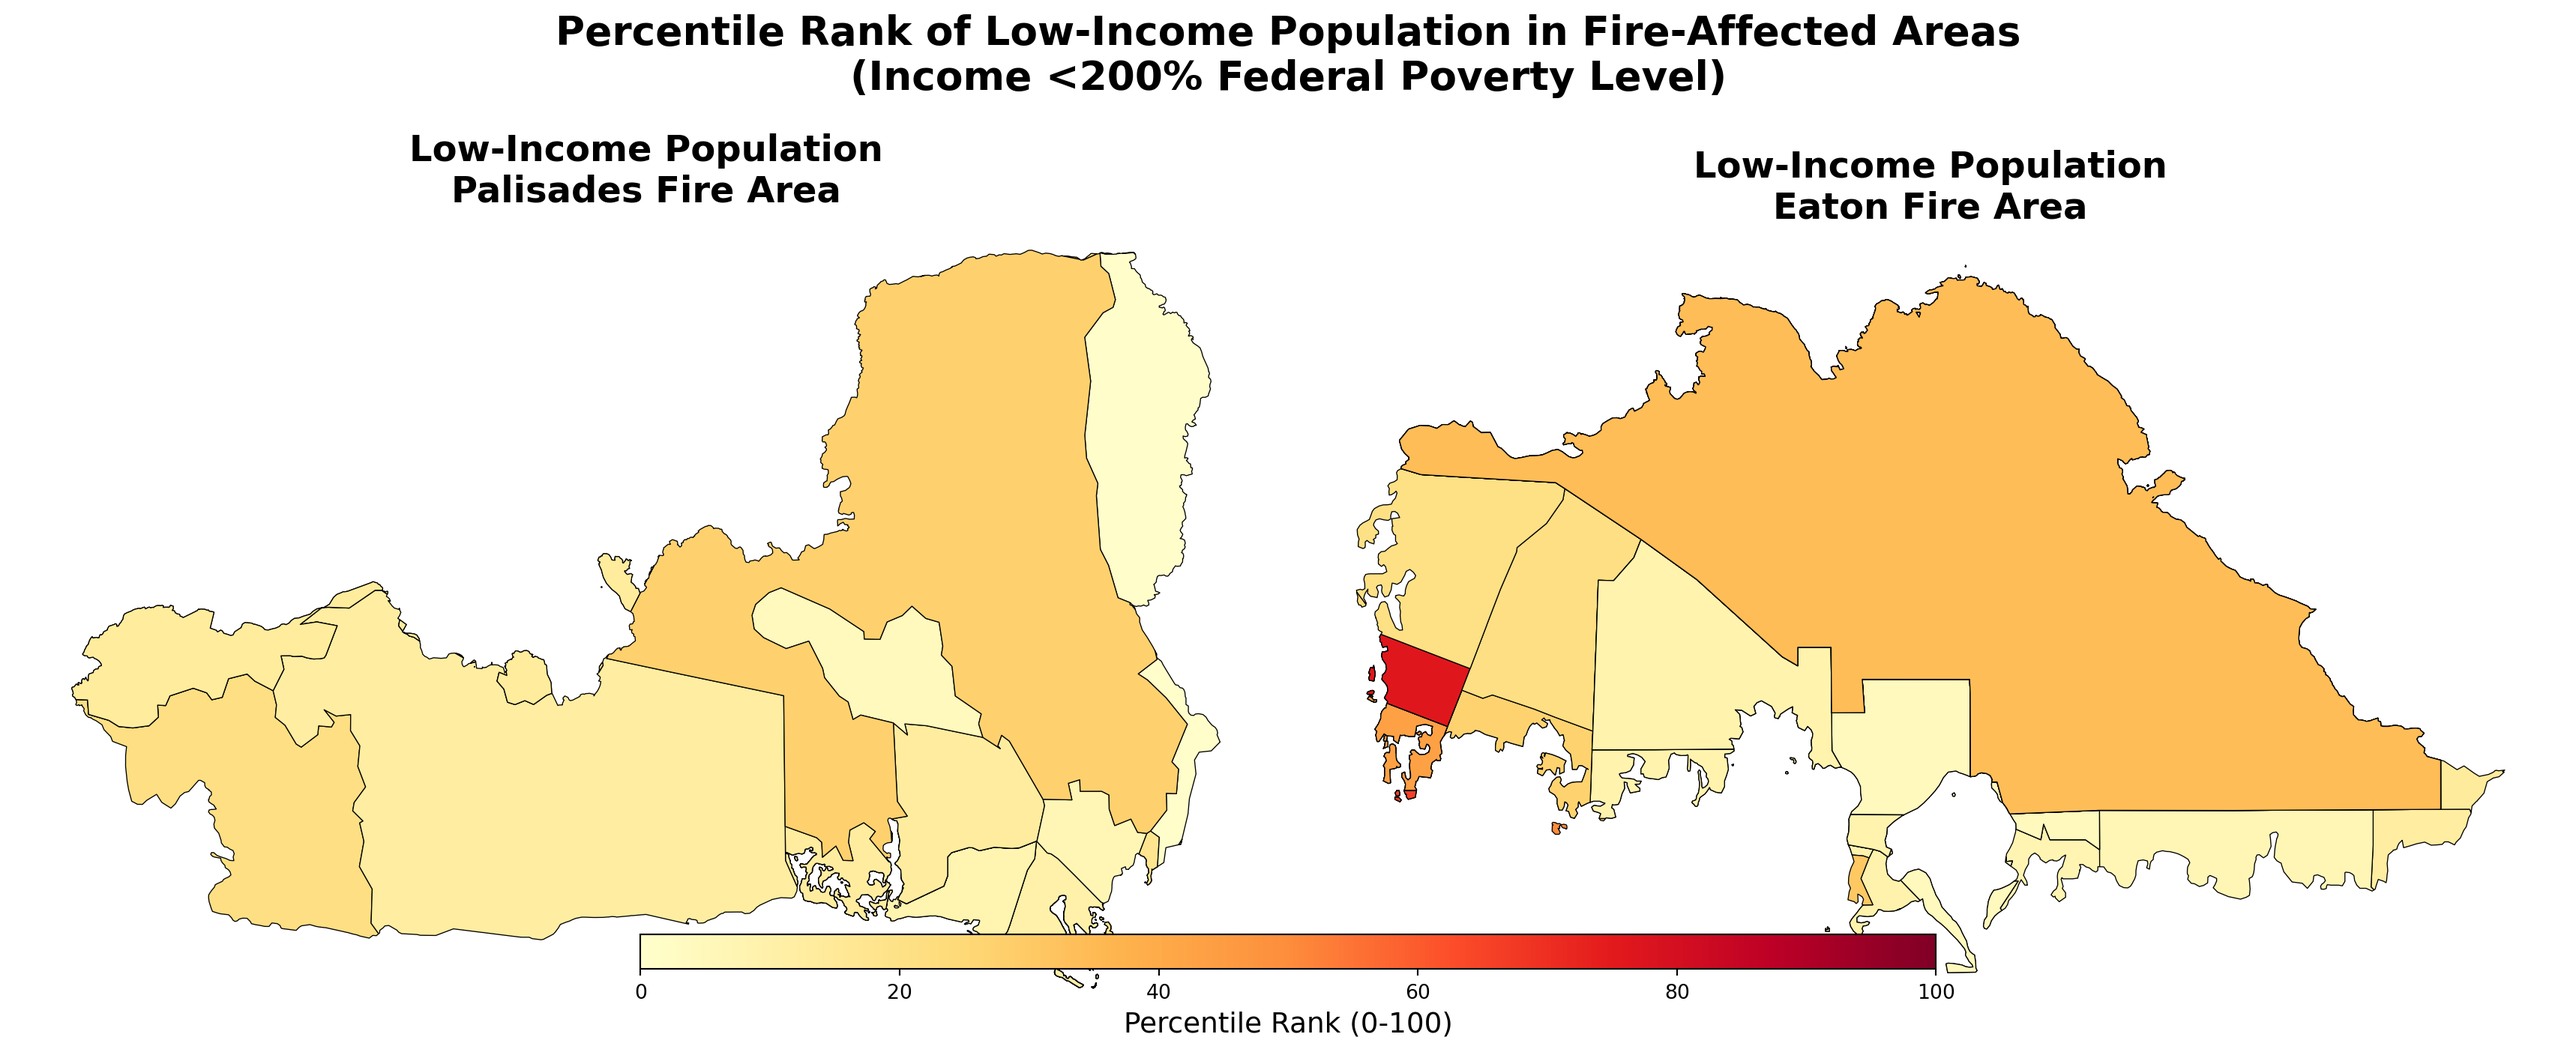
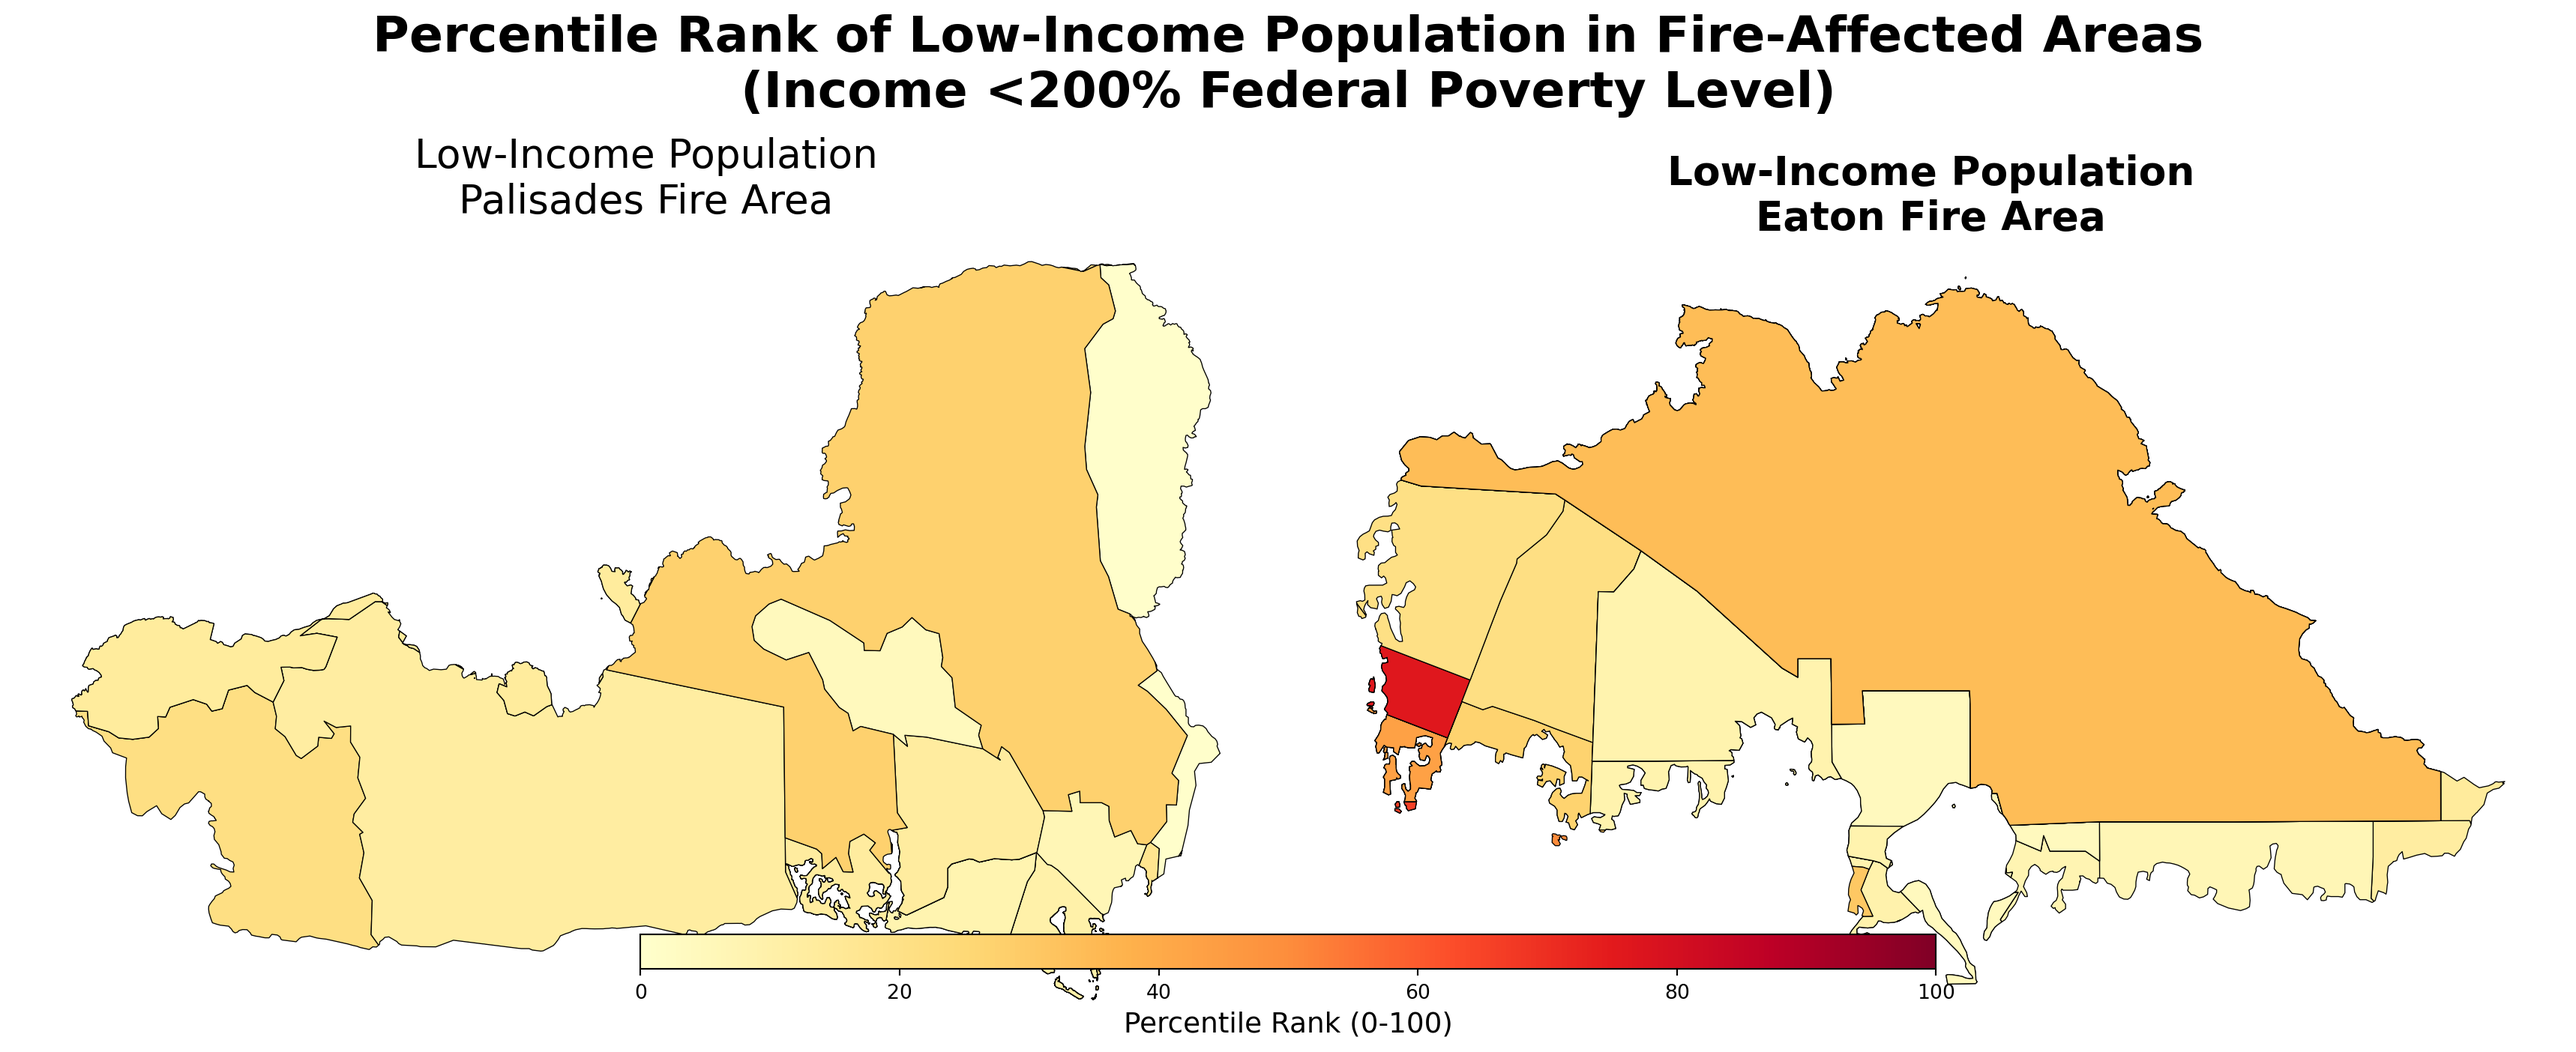
Formatting updates

diff --git a/docs/posts/eds220-final/index.html b/docs/posts/eds220-final/index.html
@@ -380,7 +380,7 @@ div.csl-indent {
 <span id="cb2-15"><a href="#cb2-15" aria-hidden="true" tabindex="-1"></a><span class="co"># Display as formatted table</span></span>
 <span id="cb2-16"><a href="#cb2-16" aria-hidden="true" tabindex="-1"></a>summary_df</span></code></pre></div><button title="Copy to Clipboard" class="code-copy-button"><i class="bi"></i></button></div>
 </details>
-<div id="load-fire-perimeters" class="cell-output cell-output-display" data-execution_count="27">
+<div id="load-fire-perimeters" class="cell-output cell-output-display" data-execution_count="53">
 <div>
 
 
@@ -435,7 +435,7 @@ div.csl-indent {
 <span id="cb3-12"><a href="#cb3-12" aria-hidden="true" tabindex="-1"></a><span class="co"># Display as formatted table</span></span>
 <span id="cb3-13"><a href="#cb3-13" aria-hidden="true" tabindex="-1"></a>crs_df</span></code></pre></div><button title="Copy to Clipboard" class="code-copy-button"><i class="bi"></i></button></div>
 </details>
-<div id="crs-check" class="cell-output cell-output-display" data-execution_count="28">
+<div id="crs-check" class="cell-output cell-output-display" data-execution_count="54">
 <div>
 
 
@@ -496,7 +496,7 @@ div.csl-indent {
 <span id="cb4-18"><a href="#cb4-18" aria-hidden="true" tabindex="-1"></a><span class="co"># Display as formatted table</span></span>
 <span id="cb4-19"><a href="#cb4-19" aria-hidden="true" tabindex="-1"></a>landsat_df</span></code></pre></div><button title="Copy to Clipboard" class="code-copy-button"><i class="bi"></i></button></div>
 </details>
-<div id="load-landsat" class="cell-output cell-output-display" data-execution_count="29">
+<div id="load-landsat" class="cell-output cell-output-display" data-execution_count="55">
 <div>
 
 
@@ -584,7 +584,7 @@ div.csl-indent {
 <span id="cb7-16"><a href="#cb7-16" aria-hidden="true" tabindex="-1"></a><span class="co"># Display as formatted table</span></span>
 <span id="cb7-17"><a href="#cb7-17" aria-hidden="true" tabindex="-1"></a>nan_df</span></code></pre></div><button title="Copy to Clipboard" class="code-copy-button"><i class="bi"></i></button></div>
 </details>
-<div id="check-nan-values" class="cell-output cell-output-display" data-execution_count="31">
+<div id="check-nan-values" class="cell-output cell-output-display" data-execution_count="57">
 <div>
 
 
@@ -714,7 +714,7 @@ div.csl-indent {
 <span id="cb11-9"><a href="#cb11-9" aria-hidden="true" tabindex="-1"></a>landsat[[<span class="st">'swir22'</span>, <span class="st">'nir08'</span>, <span class="st">'red'</span>]].to_array().plot.imshow(</span>
 <span id="cb11-10"><a href="#cb11-10" aria-hidden="true" tabindex="-1"></a>    ax <span class="op">=</span> ax,</span>
 <span id="cb11-11"><a href="#cb11-11" aria-hidden="true" tabindex="-1"></a>    robust <span class="op">=</span> <span class="va">True</span>,</span>
-<span id="cb11-12"><a href="#cb11-12" aria-hidden="true" tabindex="-1"></a>    add_colorbar<span class="op">=</span> <span class="va">False</span></span>
+<span id="cb11-12"><a href="#cb11-12" aria-hidden="true" tabindex="-1"></a>    add_colorbar <span class="op">=</span> <span class="va">False</span></span>
 <span id="cb11-13"><a href="#cb11-13" aria-hidden="true" tabindex="-1"></a>)</span>
 <span id="cb11-14"><a href="#cb11-14" aria-hidden="true" tabindex="-1"></a></span>
 <span id="cb11-15"><a href="#cb11-15" aria-hidden="true" tabindex="-1"></a><span class="co"># Overlay fire perimeters</span></span>
@@ -809,42 +809,42 @@ div.csl-indent {
 <span id="cb12-19"><a href="#cb12-19" aria-hidden="true" tabindex="-1"></a>eji_clip_palisades_scaled.plot(</span>
 <span id="cb12-20"><a href="#cb12-20" aria-hidden="true" tabindex="-1"></a>    column <span class="op">=</span> eji_variable,</span>
 <span id="cb12-21"><a href="#cb12-21" aria-hidden="true" tabindex="-1"></a>    vmin <span class="op">=</span> vmin, vmax <span class="op">=</span> vmax,</span>
-<span id="cb12-22"><a href="#cb12-22" aria-hidden="true" tabindex="-1"></a>    cmap<span class="op">=</span><span class="st">'YlOrRd'</span>,</span>
-<span id="cb12-23"><a href="#cb12-23" aria-hidden="true" tabindex="-1"></a>    legend<span class="op">=</span><span class="va">False</span>,</span>
-<span id="cb12-24"><a href="#cb12-24" aria-hidden="true" tabindex="-1"></a>    ax<span class="op">=</span>ax1,</span>
-<span id="cb12-25"><a href="#cb12-25" aria-hidden="true" tabindex="-1"></a>    edgecolor<span class="op">=</span><span class="st">'black'</span>,</span>
-<span id="cb12-26"><a href="#cb12-26" aria-hidden="true" tabindex="-1"></a>    linewidth<span class="op">=</span><span class="fl">0.5</span></span>
+<span id="cb12-22"><a href="#cb12-22" aria-hidden="true" tabindex="-1"></a>    cmap <span class="op">=</span> <span class="st">'YlOrRd'</span>,</span>
+<span id="cb12-23"><a href="#cb12-23" aria-hidden="true" tabindex="-1"></a>    legend <span class="op">=</span> <span class="va">False</span>,</span>
+<span id="cb12-24"><a href="#cb12-24" aria-hidden="true" tabindex="-1"></a>    ax <span class="op">=</span> ax1,</span>
+<span id="cb12-25"><a href="#cb12-25" aria-hidden="true" tabindex="-1"></a>    edgecolor <span class="op">=</span> <span class="st">'black'</span>,</span>
+<span id="cb12-26"><a href="#cb12-26" aria-hidden="true" tabindex="-1"></a>    linewidth <span class="op">=</span> <span class="fl">0.5</span></span>
 <span id="cb12-27"><a href="#cb12-27" aria-hidden="true" tabindex="-1"></a>)</span>
 <span id="cb12-28"><a href="#cb12-28" aria-hidden="true" tabindex="-1"></a>ax1.set_title(<span class="st">'Low-Income Population</span><span class="ch">\n</span><span class="st">Palisades Fire Area'</span>,</span>
-<span id="cb12-29"><a href="#cb12-29" aria-hidden="true" tabindex="-1"></a>              fontsize<span class="op">=</span><span class="dv">18</span>, fontweight<span class="op">=</span><span class="st">'bold'</span>)</span>
+<span id="cb12-29"><a href="#cb12-29" aria-hidden="true" tabindex="-1"></a>              fontsize <span class="op">=</span> <span class="dv">20</span>)</span>
 <span id="cb12-30"><a href="#cb12-30" aria-hidden="true" tabindex="-1"></a>ax1.axis(<span class="st">'off'</span>)</span>
 <span id="cb12-31"><a href="#cb12-31" aria-hidden="true" tabindex="-1"></a></span>
 <span id="cb12-32"><a href="#cb12-32" aria-hidden="true" tabindex="-1"></a><span class="co"># Eaton Fire area</span></span>
 <span id="cb12-33"><a href="#cb12-33" aria-hidden="true" tabindex="-1"></a>eji_clip_eaton_scaled.plot(</span>
-<span id="cb12-34"><a href="#cb12-34" aria-hidden="true" tabindex="-1"></a>    column<span class="op">=</span>eji_variable,</span>
-<span id="cb12-35"><a href="#cb12-35" aria-hidden="true" tabindex="-1"></a>    vmin<span class="op">=</span>vmin, vmax<span class="op">=</span>vmax,</span>
-<span id="cb12-36"><a href="#cb12-36" aria-hidden="true" tabindex="-1"></a>    cmap<span class="op">=</span><span class="st">'YlOrRd'</span>,</span>
-<span id="cb12-37"><a href="#cb12-37" aria-hidden="true" tabindex="-1"></a>    legend<span class="op">=</span><span class="va">False</span>,</span>
-<span id="cb12-38"><a href="#cb12-38" aria-hidden="true" tabindex="-1"></a>    ax<span class="op">=</span>ax2,</span>
-<span id="cb12-39"><a href="#cb12-39" aria-hidden="true" tabindex="-1"></a>    edgecolor<span class="op">=</span><span class="st">'black'</span>,</span>
-<span id="cb12-40"><a href="#cb12-40" aria-hidden="true" tabindex="-1"></a>    linewidth<span class="op">=</span><span class="fl">0.5</span></span>
+<span id="cb12-34"><a href="#cb12-34" aria-hidden="true" tabindex="-1"></a>    column <span class="op">=</span> eji_variable,</span>
+<span id="cb12-35"><a href="#cb12-35" aria-hidden="true" tabindex="-1"></a>    vmin <span class="op">=</span> vmin, vmax <span class="op">=</span> vmax,</span>
+<span id="cb12-36"><a href="#cb12-36" aria-hidden="true" tabindex="-1"></a>    cmap <span class="op">=</span> <span class="st">'YlOrRd'</span>,</span>
+<span id="cb12-37"><a href="#cb12-37" aria-hidden="true" tabindex="-1"></a>    legend <span class="op">=</span> <span class="va">False</span>,</span>
+<span id="cb12-38"><a href="#cb12-38" aria-hidden="true" tabindex="-1"></a>    ax <span class="op">=</span> ax2,</span>
+<span id="cb12-39"><a href="#cb12-39" aria-hidden="true" tabindex="-1"></a>    edgecolor <span class="op">=</span> <span class="st">'black'</span>,</span>
+<span id="cb12-40"><a href="#cb12-40" aria-hidden="true" tabindex="-1"></a>    linewidth <span class="op">=</span> <span class="fl">0.5</span></span>
 <span id="cb12-41"><a href="#cb12-41" aria-hidden="true" tabindex="-1"></a>)</span>
 <span id="cb12-42"><a href="#cb12-42" aria-hidden="true" tabindex="-1"></a>ax2.set_title(<span class="st">'Low-Income Population</span><span class="ch">\n</span><span class="st">Eaton Fire Area'</span>,</span>
-<span id="cb12-43"><a href="#cb12-43" aria-hidden="true" tabindex="-1"></a>              fontsize<span class="op">=</span><span class="dv">18</span>, fontweight<span class="op">=</span><span class="st">'bold'</span>)</span>
+<span id="cb12-43"><a href="#cb12-43" aria-hidden="true" tabindex="-1"></a>              fontsize <span class="op">=</span> <span class="dv">20</span>, fontweight <span class="op">=</span> <span class="st">'bold'</span>)</span>
 <span id="cb12-44"><a href="#cb12-44" aria-hidden="true" tabindex="-1"></a>ax2.axis(<span class="st">'off'</span>)</span>
 <span id="cb12-45"><a href="#cb12-45" aria-hidden="true" tabindex="-1"></a></span>
 <span id="cb12-46"><a href="#cb12-46" aria-hidden="true" tabindex="-1"></a><span class="co"># Overall title</span></span>
 <span id="cb12-47"><a href="#cb12-47" aria-hidden="true" tabindex="-1"></a>fig.suptitle(<span class="st">'Percentile Rank of Low-Income Population in Fire-Affected Areas</span><span class="ch">\n</span><span class="st">(Income &lt;200</span><span class="sc">% F</span><span class="st">ederal Poverty Level)'</span>,</span>
-<span id="cb12-48"><a href="#cb12-48" aria-hidden="true" tabindex="-1"></a>             fontsize<span class="op">=</span><span class="dv">20</span>, fontweight<span class="op">=</span><span class="st">'bold'</span>, y<span class="op">=</span><span class="fl">0.98</span>)</span>
+<span id="cb12-48"><a href="#cb12-48" aria-hidden="true" tabindex="-1"></a>             fontsize <span class="op">=</span> <span class="dv">25</span>, fontweight <span class="op">=</span> <span class="st">'bold'</span>, y <span class="op">=</span> <span class="fl">0.98</span>)</span>
 <span id="cb12-49"><a href="#cb12-49" aria-hidden="true" tabindex="-1"></a></span>
 <span id="cb12-50"><a href="#cb12-50" aria-hidden="true" tabindex="-1"></a><span class="co"># Shared colorbar</span></span>
 <span id="cb12-51"><a href="#cb12-51" aria-hidden="true" tabindex="-1"></a>sm <span class="op">=</span> plt.cm.ScalarMappable(</span>
-<span id="cb12-52"><a href="#cb12-52" aria-hidden="true" tabindex="-1"></a>    cmap<span class="op">=</span><span class="st">'YlOrRd'</span>,</span>
-<span id="cb12-53"><a href="#cb12-53" aria-hidden="true" tabindex="-1"></a>    norm<span class="op">=</span>plt.Normalize(vmin<span class="op">=</span>vmin, vmax<span class="op">=</span>vmax)</span>
+<span id="cb12-52"><a href="#cb12-52" aria-hidden="true" tabindex="-1"></a>    cmap <span class="op">=</span> <span class="st">'YlOrRd'</span>,</span>
+<span id="cb12-53"><a href="#cb12-53" aria-hidden="true" tabindex="-1"></a>    norm <span class="op">=</span> plt.Normalize(vmin <span class="op">=</span> vmin, vmax <span class="op">=</span> vmax)</span>
 <span id="cb12-54"><a href="#cb12-54" aria-hidden="true" tabindex="-1"></a>)</span>
 <span id="cb12-55"><a href="#cb12-55" aria-hidden="true" tabindex="-1"></a>cbar_ax <span class="op">=</span> fig.add_axes([<span class="fl">0.25</span>, <span class="fl">0.15</span>, <span class="fl">0.5</span>, <span class="fl">0.03</span>])</span>
-<span id="cb12-56"><a href="#cb12-56" aria-hidden="true" tabindex="-1"></a>cbar <span class="op">=</span> fig.colorbar(sm, cax<span class="op">=</span>cbar_ax, orientation<span class="op">=</span><span class="st">'horizontal'</span>)</span>
-<span id="cb12-57"><a href="#cb12-57" aria-hidden="true" tabindex="-1"></a>cbar.set_label(<span class="st">'Percentile Rank (0-100)'</span>, fontsize<span class="op">=</span><span class="dv">14</span>)</span>
+<span id="cb12-56"><a href="#cb12-56" aria-hidden="true" tabindex="-1"></a>cbar <span class="op">=</span> fig.colorbar(sm, cax <span class="op">=</span> cbar_ax, orientation <span class="op">=</span> <span class="st">'horizontal'</span>)</span>
+<span id="cb12-57"><a href="#cb12-57" aria-hidden="true" tabindex="-1"></a>cbar.set_label(<span class="st">'Percentile Rank (0-100)'</span>, fontsize <span class="op">=</span> <span class="dv">14</span>)</span>
 <span id="cb12-58"><a href="#cb12-58" aria-hidden="true" tabindex="-1"></a></span>
 <span id="cb12-59"><a href="#cb12-59" aria-hidden="true" tabindex="-1"></a>plt.tight_layout()</span>
 <span id="cb12-60"><a href="#cb12-60" aria-hidden="true" tabindex="-1"></a>plt.show()</span></code></pre></div><button title="Copy to Clipboard" class="code-copy-button"><i class="bi"></i></button></div>

diff --git a/docs/blog.html b/docs/blog.html
@@ -277,7 +277,7 @@ Emily Miller
 </a>
 </div>
 </div>
[2 lines of base64/hex data omitted]
 <div class="thumbnail"><a href="./posts/eds220-final/index.html" class="no-external">
 
 <img loading="lazy" src="./posts/eds220-final/LA-Wildfires-crop.jpg" class="thumbnail-image">
